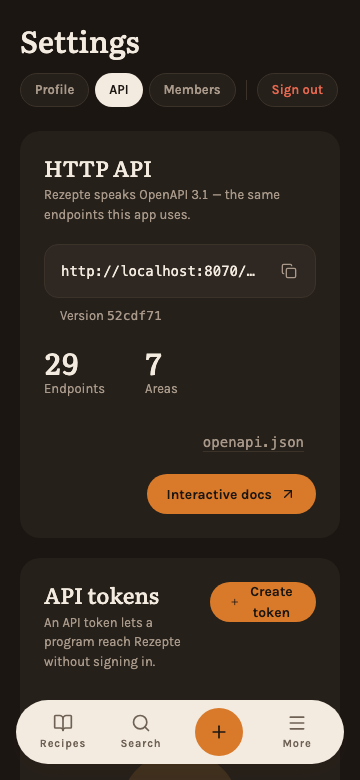
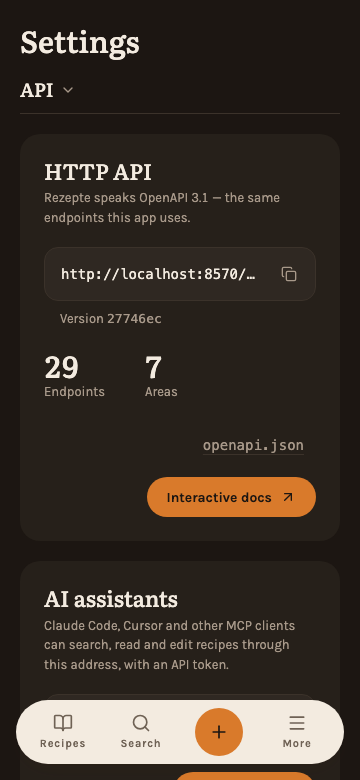
docs(user): explain connecting an AI assistant over MCP

diff --git a/docs/user/screenshots/settings.spec.ts b/docs/user/screenshots/settings.spec.ts
@@ -17,6 +17,19 @@ test('api', async ({ page }, testInfo) => {
 	await shot(page, 'api');
 });
 
+test('token-mcp', async ({ page }, testInfo) => {
+	await prepare(page, testInfo, { login: true });
+	await page.goto('/settings/api');
+	await page.getByRole('button', { name: 'Create token' }).first().click();
+	const dialog = page.getByRole('dialog');
+	await dialog.getByLabel('Name').fill('MCP on the laptop');
+	await dialog.getByRole('radio', { name: 'Full' }).click();
+	await dialog.getByRole('button', { name: 'Create', exact: true }).click();
+	const reveal = page.getByRole('dialog');
+	await expect(reveal.getByRole('tab', { name: 'Claude Code' })).toBeVisible();
+	await shot(page, 'token-mcp');
+});
+
 test('users', async ({ page }, testInfo) => {
 	await prepare(page, testInfo, { login: true });
 	// The demo seeds one account; the second row on the picture is created
